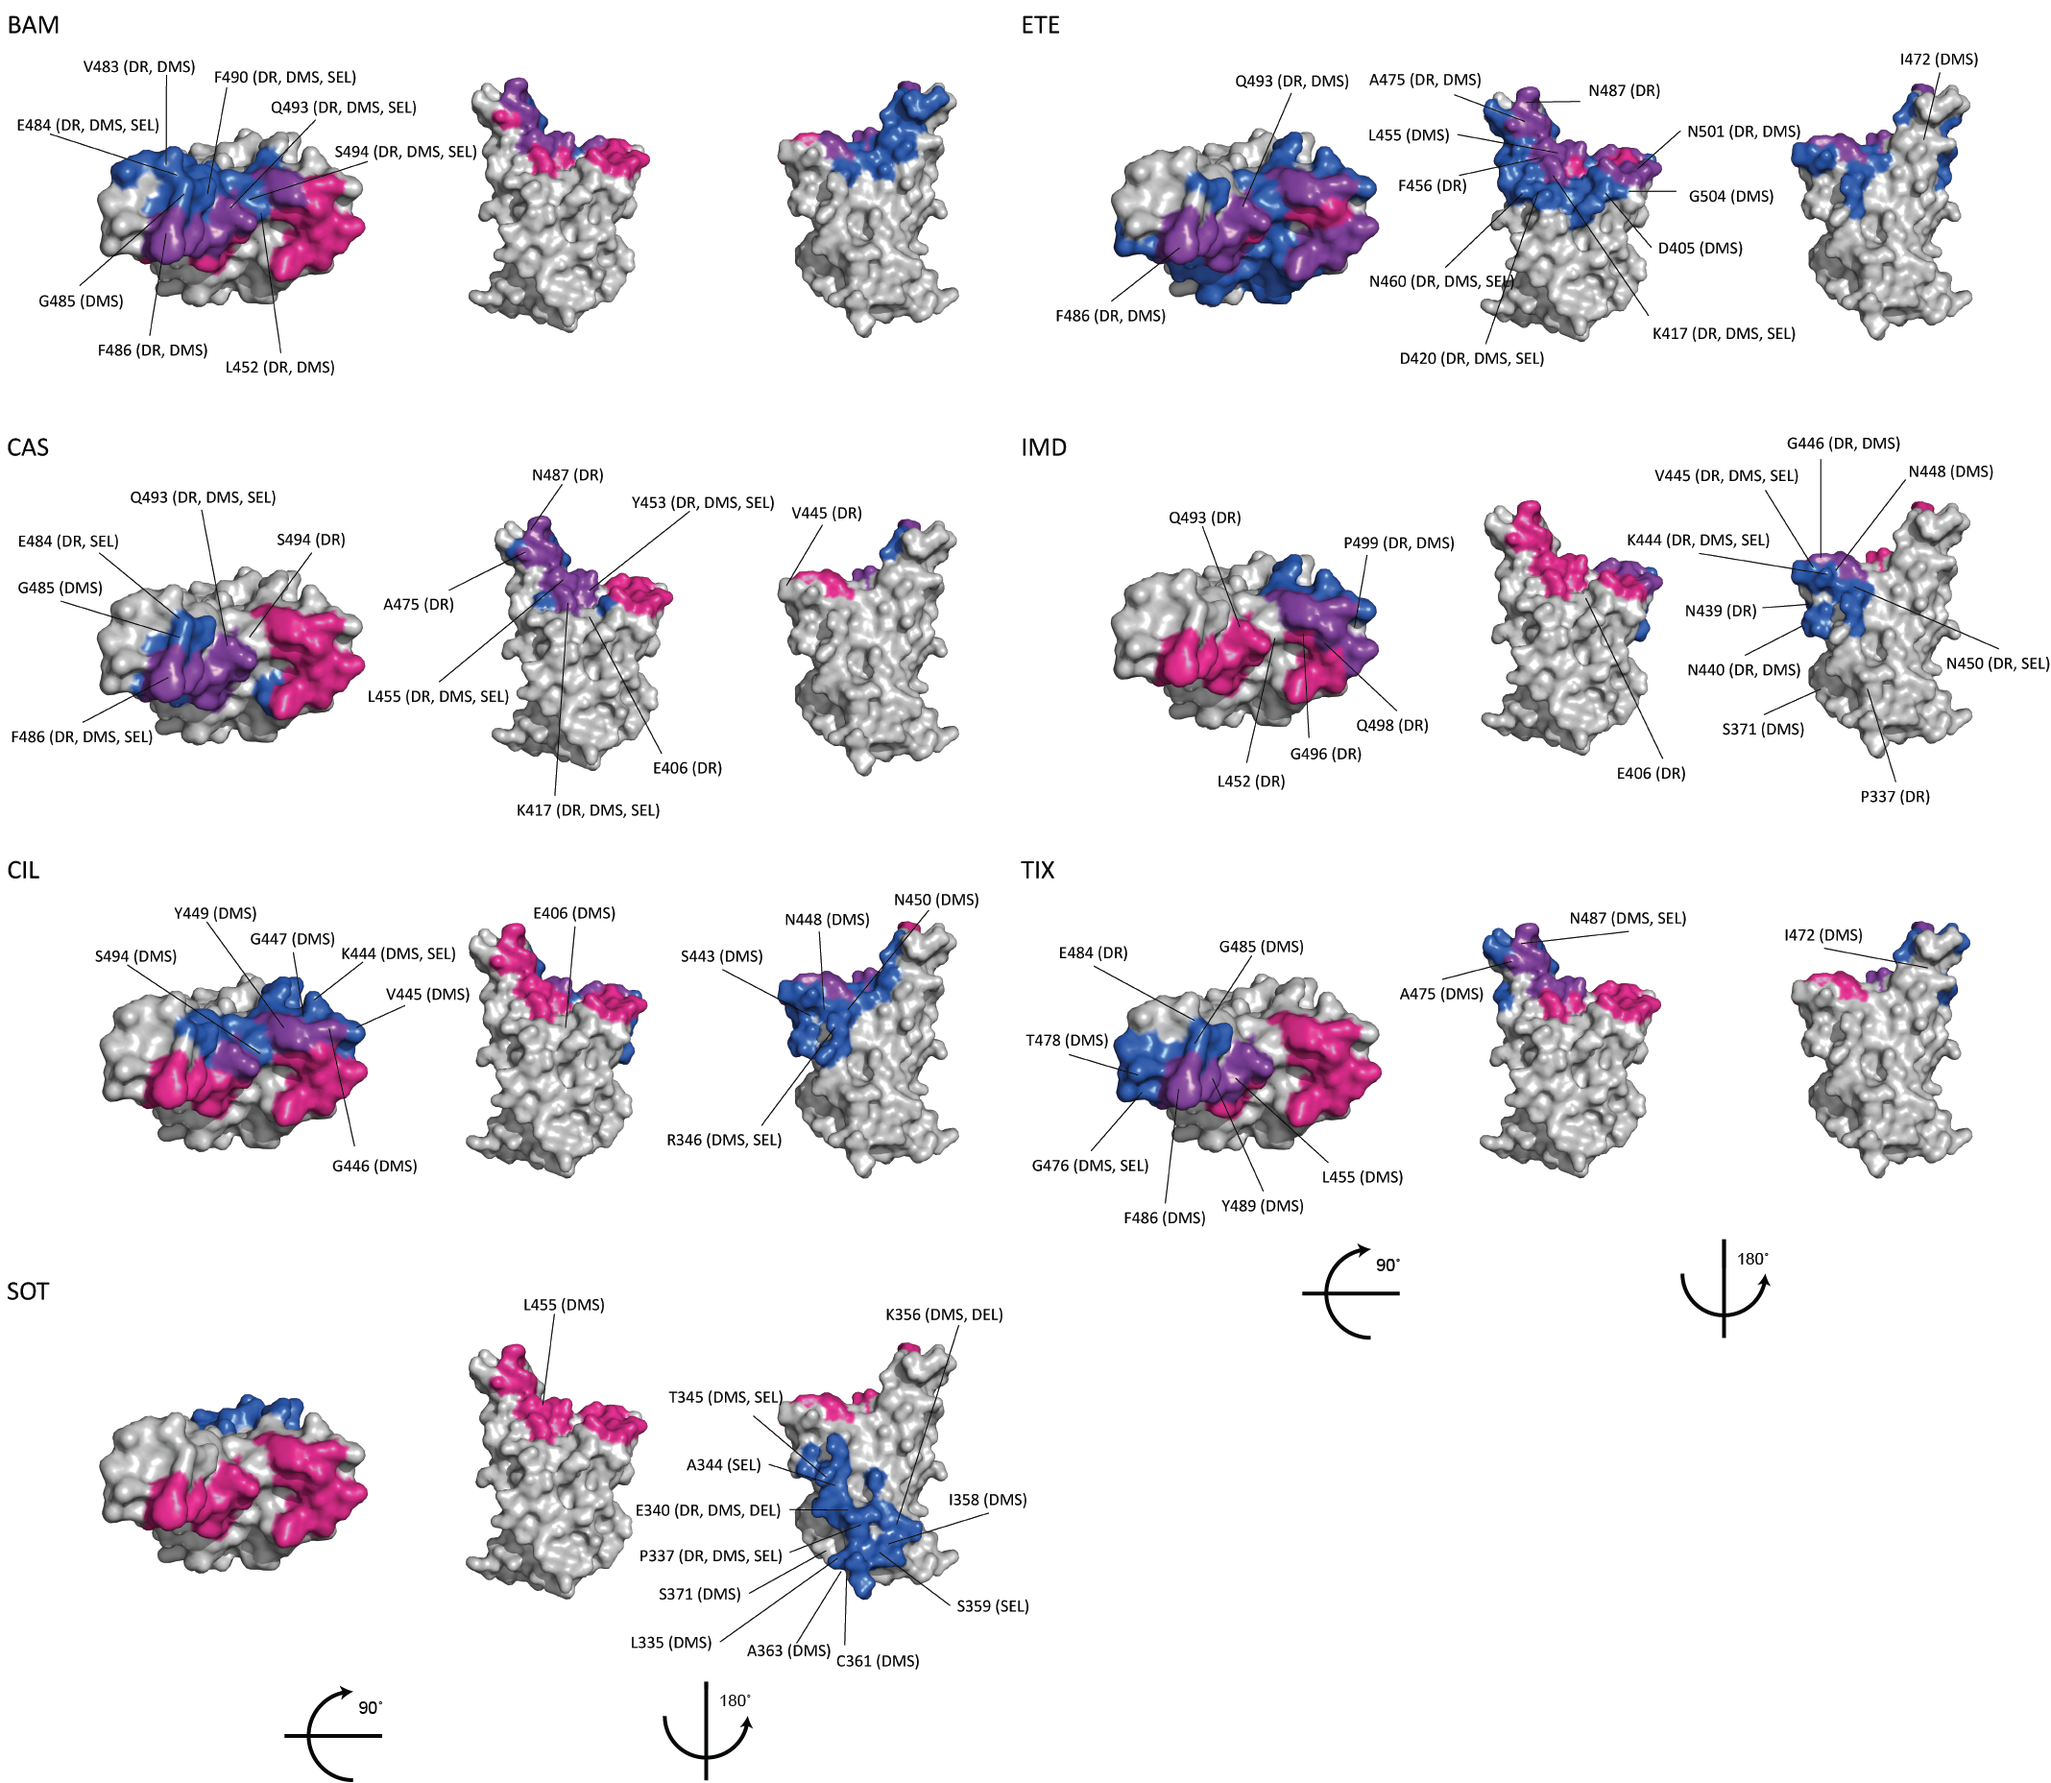
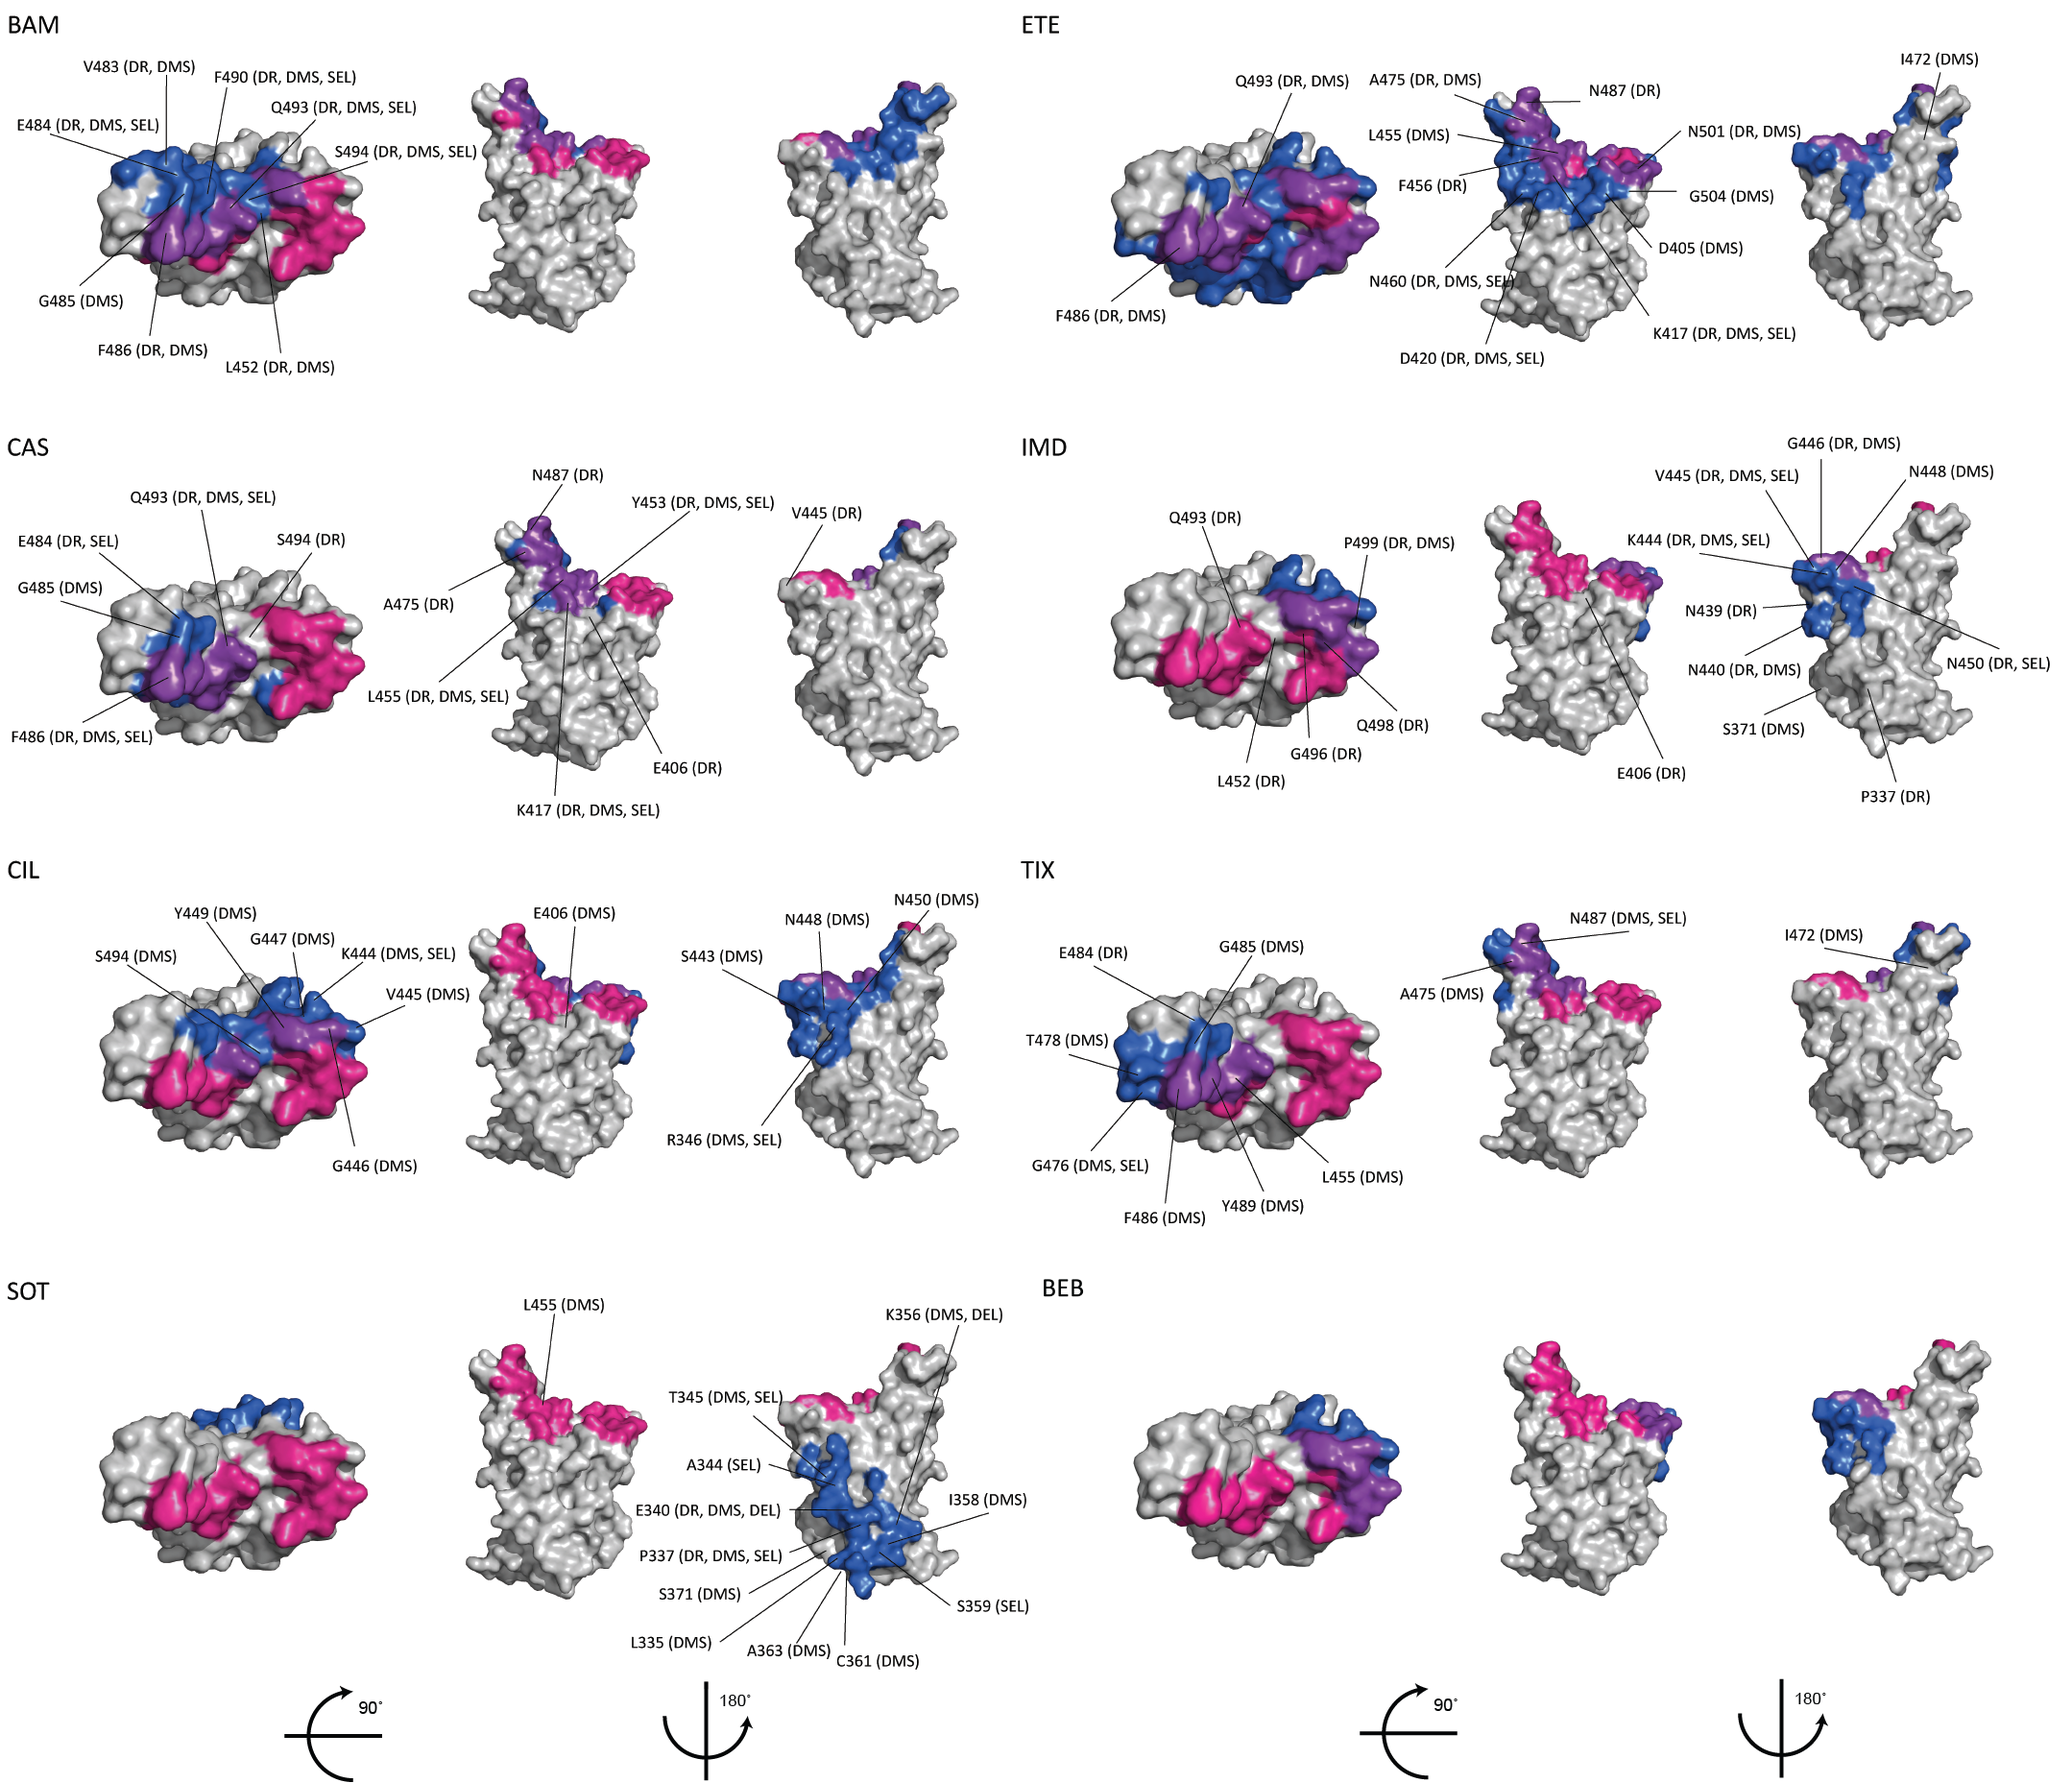
add BEB in susceptibility data folder

diff --git a/resources/susceptibility-data.md b/resources/susceptibility-data.md
@@ -273,7 +273,7 @@ The X axes indicate the Greek letter associated with each VOC. The Y axes indica
 ![mab](susceptibility-data/mab.png#!maxHeight=50rem&marginLeft=0)
 
 
-For each mAb, the top of the RBD and two side views are depicted using coordinates from PDB 6M0J. ACE2 binding residues are shown in red; the mAb epitope defined as those residues within 4.5 angstroms of the RBD is shown in dark blue; and ACE2 binding residues within the mAb epitope are shown in purple. Those positions containing mutations that were either selected by the mAb in vitro (“SEL”), reduced binding in a deep mutational scanning assay (“DMS”), and/or reduced in vitro neutralizing susceptibility by a median of ≥4-fold in CoV-RDB (drug resistance; “DR”) are also indicated. The mAb epitopes for BAM (bamlanivimab), ETE (etesevimab), CAS (casirivimab), IMD (imdevimab), SOT (sotrovirmab), CIL (cilgavimab) and TIX (tixagevimab) were determined from their PDB structures.
+For each mAb, the top of the RBD and two side views are depicted using coordinates from PDB 6M0J. ACE2 binding residues are shown in red; the mAb epitope defined as those residues within 4.5 angstroms of the RBD is shown in dark blue; and ACE2 binding residues within the mAb epitope are shown in purple. Those positions containing mutations that were either selected by the mAb in vitro (“SEL”), reduced binding in a deep mutational scanning assay (“DMS”), and/or reduced in vitro neutralizing susceptibility by a median of ≥4-fold in CoV-RDB (drug resistance; “DR”) are also indicated. The mAb epitopes for BAM (bamlanivimab), ETE (etesevimab), CAS (casirivimab), IMD (imdevimab), SOT (sotrovirmab), BEB (Bebtelovimab), CIL (cilgavimab) and TIX (tixagevimab) were determined from their PDB structures.
 
 </div>
 
